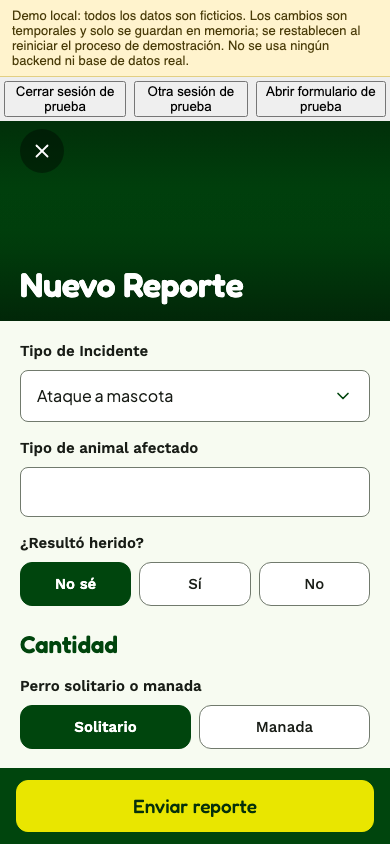
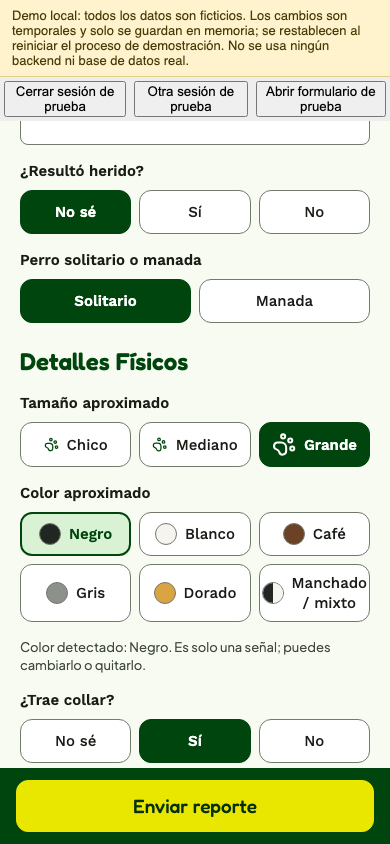
style(design): TD-134 Formulario: foto limpia con el título debajo, selector en hoja propia y cierre al tocar fuera
El encabezado muestra la foto sin degradado ni título encima y cae al encabezado verde si la foto no carga; el título pasa debajo con aire. El selector de incidente y el error usan Sheet dentro de la pantalla, con fundido del fondo y cierre al tocar fuera, en vez del modal del sistema que deslizaba un cuadro oscuro. Sheet anima el fondo y la subida y respeta reducir movimiento. Se quita el título Cantidad. El arnés web define global. Pruebas nuevas en reportFormPicker.spec.js.

diff --git a/screens/ReportFormScreen.js b/screens/ReportFormScreen.js
@@ -36,7 +36,7 @@ import {
   DOG_SIZES,
   INJURED_DOG_SITUATIONS,
 } from '../models/reportPayload.js';
-import { AppButton, Banner, Icon, Scrim } from '../components/ui/index.js';
+import { AppButton, Banner, Icon, Scrim, Sheet } from '../components/ui/index.js';
 import { colors, fontFamily, layout, radius, spacing, type } from '../theme/index.js';
 
 /** Translates a field validation error (`{key, values}`) or returns a string error as is. */
@@ -46,9 +46,8 @@ function fieldErrorText(error, t) {
   return t(`reportForm.validation.${error.key}`, error.values);
 }
 
-/** Single-choice field that opens a bottom sheet with the option list. */
-function SelectField({ label, field, value, options, disabled, error, t, onChange }) {
-  const [open, setOpen] = useState(false);
+/** Single-choice field; the option list opens in a sheet owned by the screen (`onOpen`). */
+function SelectField({ label, field, value, options, disabled, error, t, onOpen, expanded }) {
   const message = fieldErrorText(error, t);
   const selected = options.find((option) => option.value === value);
   return (
@@ -57,9 +56,9 @@ function SelectField({ label, field, value, options, disabled, error, t, onChang
       <Pressable
         testID={`report-${field}-select`}
         accessibilityRole="button"
-        accessibilityState={{ expanded: open, disabled: Boolean(disabled) }}
+        accessibilityState={{ expanded, disabled: Boolean(disabled) }}
         disabled={disabled}
-        onPress={() => setOpen(true)}
+        onPress={onOpen}
         style={({ pressed }) => [
           styles.select,
           error && styles.inputError,
@@ -70,41 +69,6 @@ function SelectField({ label, field, value, options, disabled, error, t, onChang
         <Text numberOfLines={1} style={styles.selectText}>{selected?.label ?? t('reportForm.selectPlaceholder')}</Text>
         <Icon name="down" size={20} color={colors.primary} />
       </Pressable>
-      <Modal
-        visible={open}
-        transparent
-        animationType="slide"
-        onRequestClose={() => setOpen(false)}
-      >
-        <View style={styles.selectBackdrop}>
-          <Pressable accessible={false} aria-hidden importantForAccessibility="no" style={styles.selectDismissArea} onPress={() => setOpen(false)} />
-          <View style={styles.selectSheet}>
-            <Text accessibilityRole="header" style={styles.selectSheetTitle}>{label}</Text>
-            {options.map((option) => (
-              <Pressable
-                key={option.value}
-                testID={`report-${field}-${option.value}`}
-                accessibilityRole="button"
-                accessibilityState={{ selected: value === option.value }}
-                onPress={() => {
-                  onChange(option.value);
-                  setOpen(false);
-                }}
-                style={({ pressed }) => [
-                  styles.selectOption,
-                  value === option.value && styles.selectOptionSelected,
-                  pressed && styles.pressed,
-                ]}
-              >
-                <Text style={[styles.selectOptionText, value === option.value && styles.selectOptionTextSelected]}>
-                  {option.label}
-                </Text>
-                {value === option.value ? <Icon name="check" size={20} color={colors.primary} strokeWidth={3} /> : null}
-              </Pressable>
-            ))}
-          </View>
-        </View>
-      </Modal>
       {message ? <Text style={styles.fieldError}>{message}</Text> : null}
     </View>
   );
@@ -266,6 +230,8 @@ export default function ReportFormScreen({
   const { t } = useTranslation();
   const insets = useSafeAreaInsets();
   const [form, setForm] = useState(() => createEmptyReportFormDraft());
+  const [picker, setPicker] = useState(null);
+  const [photoFailed, setPhotoFailed] = useState(false);
   const submit = useSubmitReport({
     draft,
     queueDraft,
@@ -277,6 +243,7 @@ export default function ReportFormScreen({
   const validation = draft?.photo_validation;
   const detectedColor = detectedDogColorFromDraft(draft);
   const photoUri = draft?.photo_file_uri;
+  const showPhoto = Boolean(draft && photoUri && !photoFailed);
   const submittedDraft = submit.submittedDraft ?? draft;
   const photoRejection = photoRejectedInfo(submittedDraft);
   const statusError = submit.error ?? draft?.last_error ?? error;
@@ -293,6 +260,7 @@ export default function ReportFormScreen({
   );
 
   useEffect(() => {
+    setPhotoFailed(false);
     setForm({ ...createEmptyReportFormDraft(), dog_color: detectedDogColorFromDraft(draft) });
   }, [draft?.id]);
 
@@ -366,26 +334,24 @@ export default function ReportFormScreen({
     void submit.submit(form);
   }
 
-  const dialogOpen = showSuccessDialog || showQueuedDialog || showErrorDialog;
   const fullScreenResult = showSuccessDialog || showQueuedDialog;
 
   return (
     <View style={styles.safeArea}>
       <KeyboardAvoidingView style={styles.flex} behavior={Platform.OS === 'ios' ? 'padding' : undefined}>
         <ScrollView keyboardShouldPersistTaps="handled" contentContainerStyle={styles.content}>
-          <View style={[styles.hero, { height: 200 + insets.top }]}>
-            {draft && photoUri ? (
-              <Image accessibilityRole="image" accessibilityLabel={t('reportForm.photoPreview')} source={{ uri: photoUri }} style={styles.preview} resizeMode="cover" />
+          <View style={[styles.hero, { height: (showPhoto ? 280 : 130) + insets.top }]}>
+            {showPhoto ? (
+              <Image accessibilityRole="image" accessibilityLabel={t('reportForm.photoPreview')} source={{ uri: photoUri }} style={styles.preview} resizeMode="cover" onError={() => setPhotoFailed(true)} />
             ) : (
               <View testID={draft ? 'report-no-photo' : undefined} style={styles.noPhoto}>
                 <View pointerEvents="none" accessible={false} aria-hidden importantForAccessibility="no" style={styles.noPhotoPaw}>
-                  <Icon name="dog" size={190} color={colors.onPrimary} strokeWidth={1.4} />
+                  <Icon name="dog" size={170} color={colors.onPrimary} strokeWidth={1.4} />
                 </View>
                 {draft ? <Text style={styles.noPhotoText}>{t('reportForm.noPhoto')}</Text> : null}
               </View>
             )}
-            {draft && photoUri ? <Scrim edge="top" height={110 + insets.top} strength={0.5} /> : null}
-            <Scrim edge="bottom" height={130} strength={0.7} />
+            {showPhoto ? <Scrim edge="top" height={90 + insets.top} strength={0.4} /> : null}
             <Pressable
               accessibilityRole="button"
               accessibilityLabel={t('reportForm.close')}
@@ -395,8 +361,8 @@ export default function ReportFormScreen({
             >
               <Icon name="close" size={22} color={colors.onPrimary} />
             </Pressable>
-            <Text accessibilityRole="header" style={styles.title}>{t('reportForm.title')}</Text>
           </View>
+          <Text accessibilityRole="header" style={styles.title}>{t('reportForm.title')}</Text>
 
           <View style={styles.body}>
             {loading ? (
@@ -438,7 +404,8 @@ export default function ReportFormScreen({
                     disabled={!canEdit}
                     error={submit.fieldErrors.incident_type}
                     t={t}
-                    onChange={(value) => updateField('incident_type', value)}
+                    expanded={picker?.field === 'incident_type'}
+                    onOpen={() => setPicker({ field: 'incident_type', label: t('reportForm.fields.incident_type'), options: incidentOptions, onChange: (value) => updateField('incident_type', value) })}
                   />
                   {form.incident_type === 'ataque_humano' ? (
                     <ChoiceGroup
@@ -505,10 +472,6 @@ export default function ReportFormScreen({
                   {form.incident_type === 'otro' ? (
                     <Text style={styles.caption}>{t('reportForm.onlyDescription')}</Text>
                   ) : null}
-                </View>
-
-                <View style={styles.section}>
-                  <Text accessibilityRole="header" style={styles.sectionTitle}>{t('reportForm.sections.details')}</Text>
                   <ChoiceGroup
                     label={t('reportForm.fields.sighting_type')}
                     field="sighting_type"
@@ -638,54 +601,26 @@ export default function ReportFormScreen({
         ) : null}
       </KeyboardAvoidingView>
 
-      <Modal
-        visible={dialogOpen}
-        transparent
-        animationType={fullScreenResult ? 'fade' : 'slide'}
-        onRequestClose={onBackToCamera}
-      >
-        <View style={fullScreenResult ? styles.resultFull : styles.resultBackdrop}>
+      <Modal visible={fullScreenResult} transparent animationType="fade" onRequestClose={onBackToCamera}>
+        <View style={styles.resultFull}>
           <View
-            testID={showSuccessDialog ? 'report-success' : showQueuedDialog ? 'report-queued' : 'report-error'}
-            style={fullScreenResult ? styles.resultFullBody : styles.resultSheet}
+            testID={showSuccessDialog ? 'report-success' : 'report-queued'}
+            style={styles.resultFullBody}
             accessibilityViewIsModal
             accessibilityRole="alert"
           >
-            {fullScreenResult ? (
-              <View pointerEvents="none" accessible={false} aria-hidden importantForAccessibility="no" style={styles.resultPaw}>
-                <Icon name="dog" size={240} color={colors.onPrimary} strokeWidth={1.3} />
-              </View>
-            ) : null}
+            <View pointerEvents="none" accessible={false} aria-hidden importantForAccessibility="no" style={styles.resultPaw}>
+              <Icon name="dog" size={240} color={colors.onPrimary} strokeWidth={1.3} />
+            </View>
             <View style={styles.resultText}>
-              <Text style={[styles.resultTitle, showErrorDialog && styles.resultTitleError]}>
-                {showSuccessDialog
-                  ? t('reportForm.successTitle')
-                  : showQueuedDialog
-                    ? t('reportForm.queuedTitle')
-                    : t('reportForm.errorTitle')}
-              </Text>
-              <Text style={[styles.resultBody, showErrorDialog && styles.resultBodyError]}>
-                {showSuccessDialog
-                  ? t('reportForm.successBody')
-                  : showQueuedDialog
-                    ? t('reportForm.queuedBody')
-                    : t('reportForm.errorCode', { code: reportErrorCode(statusError) })}
-              </Text>
+              <Text style={styles.resultTitle}>{showSuccessDialog ? t('reportForm.successTitle') : t('reportForm.queuedTitle')}</Text>
+              <Text style={styles.resultBody}>{showSuccessDialog ? t('reportForm.successBody') : t('reportForm.queuedBody')}</Text>
             </View>
             <View style={styles.resultActions}>
-              {showErrorDialog ? (
-                <AppButton
-                  testID="report-error-retry"
-                  title={t('reportForm.resultRetry')}
-                  loading={submit.submitting}
-                  disabled={submit.submitting}
-                  onPress={retrySubmit}
-                />
-              ) : null}
               <AppButton
-                testID={showSuccessDialog ? 'report-success-back' : showQueuedDialog ? 'report-queued-back' : 'report-error-back'}
+                testID={showSuccessDialog ? 'report-success-back' : 'report-queued-back'}
                 title={t('reportForm.resultBack')}
-                variant={showErrorDialog ? 'secondary' : 'signal'}
+                variant="signal"
                 size="lg"
                 onPress={onBackToCamera}
               />
@@ -693,6 +628,38 @@ export default function ReportFormScreen({
           </View>
         </View>
       </Modal>
+
+      {picker ? (
+        <Sheet onClose={() => setPicker(null)} maxHeight="80%" style={styles.pickerSheet}>
+          <Text accessibilityRole="header" style={styles.selectSheetTitle}>{picker.label}</Text>
+          {picker.options.map((option) => (
+            <Pressable
+              key={option.value}
+              testID={`report-${picker.field}-${option.value}`}
+              accessibilityRole="button"
+              accessibilityState={{ selected: form[picker.field] === option.value }}
+              onPress={() => { picker.onChange(option.value); setPicker(null); }}
+              style={({ pressed }) => [styles.selectOption, form[picker.field] === option.value && styles.selectOptionSelected, pressed && styles.pressed]}
+            >
+              <Text style={[styles.selectOptionText, form[picker.field] === option.value && styles.selectOptionTextSelected]}>{option.label}</Text>
+              {form[picker.field] === option.value ? <Icon name="check" size={20} color={colors.primary} strokeWidth={3} /> : null}
+            </Pressable>
+          ))}
+        </Sheet>
+      ) : null}
+
+      {showErrorDialog ? (
+        <Sheet testID="report-error" onClose={onBackToCamera} maxHeight="70%" style={styles.errorSheet}>
+          <View accessibilityViewIsModal accessibilityRole="alert" style={styles.errorBody}>
+            <Text style={styles.resultTitleError}>{t('reportForm.errorTitle')}</Text>
+            <Text style={styles.resultBodyError}>{t('reportForm.errorCode', { code: reportErrorCode(statusError) })}</Text>
+            <View style={styles.resultActions}>
+              <AppButton testID="report-error-retry" title={t('reportForm.resultRetry')} loading={submit.submitting} disabled={submit.submitting} onPress={retrySubmit} />
+              <AppButton testID="report-error-back" title={t('reportForm.resultBack')} variant="secondary" onPress={onBackToCamera} />
+            </View>
+          </View>
+        </Sheet>
+      ) : null}
     </View>
   );
 }
@@ -701,14 +668,14 @@ const styles = StyleSheet.create({
   flex: { flex: 1 },
   safeArea: { flex: 1, backgroundColor: colors.primary },
   content: { flexGrow: 1, backgroundColor: colors.background },
-  hero: { width: '100%', backgroundColor: colors.primary, justifyContent: 'flex-end' },
+  hero: { width: '100%', backgroundColor: colors.primary },
   preview: { ...StyleSheet.absoluteFillObject, width: '100%', height: '100%' },
   noPhoto: { ...StyleSheet.absoluteFillObject, backgroundColor: colors.primary, alignItems: 'flex-end', justifyContent: 'flex-start', overflow: 'hidden' },
   noPhotoPaw: { position: 'absolute', right: -40, top: 20, opacity: 0.12, transform: [{ rotate: '-18deg' }] },
-  noPhotoText: { position: 'absolute', right: layout.margin, bottom: spacing.xl, fontFamily: fontFamily.label, fontSize: 14, color: colors.onForest },
+  noPhotoText: { position: 'absolute', right: layout.margin, bottom: spacing.lg, fontFamily: fontFamily.label, fontSize: 14, color: colors.onForest },
   closeButton: { position: 'absolute', left: layout.margin, width: layout.minTouch, height: layout.minTouch, borderRadius: 22, backgroundColor: 'rgba(0,0,0,0.38)', alignItems: 'center', justifyContent: 'center' },
-  title: { fontFamily: fontFamily.display, fontSize: 34, lineHeight: 40, letterSpacing: -0.3, color: colors.onPrimary, paddingHorizontal: layout.margin, paddingBottom: spacing.lg },
-  body: { width: '100%', maxWidth: 920, alignSelf: 'center', paddingHorizontal: layout.margin, paddingTop: spacing.xl, paddingBottom: spacing.xxl, gap: spacing.xxl },
+  title: { fontFamily: fontFamily.display, fontSize: 36, lineHeight: 44, letterSpacing: -0.3, color: colors.primary, paddingHorizontal: layout.margin, paddingTop: spacing.xl },
+  body: { width: '100%', maxWidth: 920, alignSelf: 'center', paddingHorizontal: layout.margin, paddingTop: spacing.lg, paddingBottom: spacing.xxl, gap: spacing.xxl },
   subtitle: { ...type.body, color: colors.inkMuted },
   state: { paddingVertical: spacing.xxl, alignItems: 'center' },
   section: { gap: spacing.lg },
@@ -728,13 +695,13 @@ const styles = StyleSheet.create({
   selectOptionTextSelected: { fontFamily: fontFamily.label, color: colors.primary },
   choiceGrid: { flexDirection: 'row', flexWrap: 'wrap', gap: spacing.sm },
   choice: { flexGrow: 1, flexBasis: 92, minHeight: layout.minTouch, borderRadius: radius.md, borderWidth: 1, borderColor: colors.outline, backgroundColor: colors.surface, alignItems: 'center', justifyContent: 'center', paddingHorizontal: spacing.md, paddingVertical: spacing.sm },
-  choiceWithAdornment: { flexDirection: 'row', gap: spacing.sm, justifyContent: 'center' },
+  choiceWithAdornment: { flexDirection: 'row', gap: spacing.sm, justifyContent: 'center', paddingHorizontal: spacing.md },
   choiceSoftSelected: { backgroundColor: colors.primarySoft, borderColor: colors.primary, borderWidth: 2 },
   choiceTextSoftSelected: { fontFamily: fontFamily.label, color: colors.primary },
   dot: { width: 22, height: 22, borderRadius: 11, borderWidth: 1, borderColor: colors.outline, overflow: 'hidden', flexDirection: 'row' },
   dotHalf: { flex: 1 },
   choiceSelected: { backgroundColor: colors.primary, borderColor: colors.primary },
-  choiceText: { fontFamily: fontFamily.labelMedium, fontSize: 15, lineHeight: 20, color: colors.ink, textAlign: 'center' },
+  choiceText: { flexShrink: 1, fontFamily: fontFamily.labelMedium, fontSize: 15, lineHeight: 20, color: colors.ink, textAlign: 'center' },
   choiceTextSelected: { fontFamily: fontFamily.label, color: colors.onPrimary },
   input: { ...type.body, borderWidth: 1, borderColor: colors.outline, borderRadius: radius.sm, backgroundColor: colors.surface, color: colors.ink, paddingHorizontal: spacing.lg, paddingVertical: spacing.md, minHeight: 48 },
   textArea: { minHeight: 112 },
@@ -756,12 +723,15 @@ const styles = StyleSheet.create({
   resultFull: { flex: 1, backgroundColor: colors.primary },
   resultFullBody: { flex: 1, justifyContent: 'space-between', padding: layout.margin, paddingTop: spacing.xxxl * 2, paddingBottom: spacing.xxxl, overflow: 'hidden' },
   resultPaw: { position: 'absolute', right: -60, top: '30%', opacity: 0.1, transform: [{ rotate: '-18deg' }] },
+  pickerSheet: { paddingHorizontal: 0, paddingTop: spacing.xl, paddingBottom: spacing.xxl, gap: 0 },
+  errorSheet: { paddingBottom: spacing.xxxl },
+  errorBody: { gap: spacing.lg },
   resultBackdrop: { flex: 1, justifyContent: 'flex-end', backgroundColor: colors.scrim },
   resultSheet: { width: '100%', maxWidth: 520, alignSelf: 'center', borderTopLeftRadius: radius.xl, borderTopRightRadius: radius.xl, backgroundColor: colors.surface, padding: layout.margin, paddingBottom: spacing.xxxl, gap: spacing.xl },
   resultText: { gap: spacing.md, justifyContent: 'center', flexGrow: 1 },
   resultTitle: { fontFamily: fontFamily.display, fontSize: 44, lineHeight: 50, letterSpacing: -0.5, color: colors.onPrimary },
-  resultTitleError: { fontSize: 30, lineHeight: 36, letterSpacing: 0, color: colors.danger },
+  resultTitleError: { fontFamily: fontFamily.display, fontSize: 30, lineHeight: 36, color: colors.danger },
   resultBody: { ...type.body, fontSize: 17, lineHeight: 25, color: colors.onForest, maxWidth: 420 },
-  resultBodyError: { color: colors.ink },
+  resultBodyError: { ...type.body, fontSize: 17, lineHeight: 25, color: colors.ink },
   resultActions: { gap: spacing.md },
 });

diff --git a/components/ui/Sheet.js b/components/ui/Sheet.js
@@ -1,21 +1,40 @@
 /**
  * @module components/ui/Sheet
- * Bottom sheet over a dismissable backdrop. The backdrop is hidden from accessibility so it never adds a
- * second "Close" button; the sheet's own close control remains the accessible one. `keyboardAware` wraps
- * the sheet in KeyboardAvoidingView (iOS `padding`, matching the rest of the app).
+ * Bottom sheet over a dismissable, dimmed backdrop, drawn inside the screen (not in a system modal, so there
+ * is no sliding black box). The backdrop fades in and the sheet rises; both are skipped when the user asks for
+ * reduced motion. The backdrop is hidden from accessibility so it never adds a second "Close" button; the
+ * sheet's own close control remains the accessible one. `keyboardAware` wraps the sheet in
+ * KeyboardAvoidingView (iOS `padding`, matching the rest of the app).
  */
-import { KeyboardAvoidingView, Platform, Pressable, StyleSheet, View } from 'react-native';
-import { colors, radius, shadows, spacing } from '../../theme/index.js';
+import { useEffect, useRef } from 'react';
+import { AccessibilityInfo, Animated, Easing, KeyboardAvoidingView, Platform, Pressable, StyleSheet, View } from 'react-native';
+import { colors, motion, radius, shadows, spacing } from '../../theme/index.js';
 
-export default function Sheet({ children, onClose, dismissable = true, keyboardAware = false, maxHeight = '90%', style, testID }) {
+export default function Sheet({ children, onClose, dismissable = true, dim = true, keyboardAware = false, maxHeight = '90%', style, testID }) {
+  const progress = useRef(new Animated.Value(0)).current;
+  useEffect(() => {
+    let cancelled = false;
+    const run = (reduced) => {
+      if (cancelled) return;
+      if (reduced) progress.setValue(1);
+      else Animated.timing(progress, { toValue: 1, duration: motion.base, easing: Easing.out(Easing.cubic), useNativeDriver: true }).start();
+    };
+    AccessibilityInfo.isReduceMotionEnabled().then(run, () => run(false));
+    return () => { cancelled = true; };
+  }, [progress]);
+
   const Root = keyboardAware ? KeyboardAvoidingView : View;
   const rootProps = keyboardAware ? { behavior: Platform.OS === 'ios' ? 'padding' : undefined } : {};
   return (
     <Root pointerEvents="box-none" style={styles.overlay} {...rootProps}>
+      <Animated.View pointerEvents="none" style={[StyleSheet.absoluteFill, { backgroundColor: dim ? colors.scrim : 'transparent', opacity: progress }]} />
       <Pressable accessible={false} aria-hidden importantForAccessibility="no" onPress={dismissable ? onClose : undefined} style={StyleSheet.absoluteFill} />
-      <View testID={testID} style={[styles.sheet, { maxHeight }, style]}>
+      <Animated.View
+        testID={testID}
+        style={[styles.sheet, { maxHeight }, { transform: [{ translateY: progress.interpolate({ inputRange: [0, 1], outputRange: [260, 0] }) }] }, style]}
+      >
         {children}
-      </View>
+      </Animated.View>
     </Root>
   );
 }

diff --git a/tests/ui/reportFormPicker.spec.js b/tests/ui/reportFormPicker.spec.js
@@ -1,0 +1,24 @@
+import { test, expect } from '@playwright/test';
+
+test.use({ viewport: { width: 390, height: 844 } });
+
+test('the incident sheet closes when tapping outside and keeps the current choice', async ({ page }) => {
+  const errors = [];
+  page.on('pageerror', (error) => errors.push(error.message));
+  await page.goto('/?report');
+  await page.getByTestId('report-incident_type-select').click();
+  await expect(page.getByTestId('report-incident_type-ataque_humano')).toBeVisible();
+  await page.mouse.click(195, 250);
+  await expect(page.getByTestId('report-incident_type-ataque_humano')).toHaveCount(0);
+  await expect(page.getByTestId('report-incident_type-select')).toContainText('Avistamiento');
+  expect(errors).toEqual([]);
+});
+
+test('choosing an option in the sheet closes it and updates the field', async ({ page }) => {
+  await page.goto('/?report');
+  await page.getByTestId('report-incident_type-select').click();
+  await page.getByTestId('report-incident_type-perro_lastimado').click();
+  await expect(page.getByTestId('report-incident_type-ataque_humano')).toHaveCount(0);
+  await expect(page.getByTestId('report-incident_type-select')).toContainText('Perro lastimado');
+  await expect(page.getByTestId('report-situacion-atrapado')).toBeVisible();
+});
